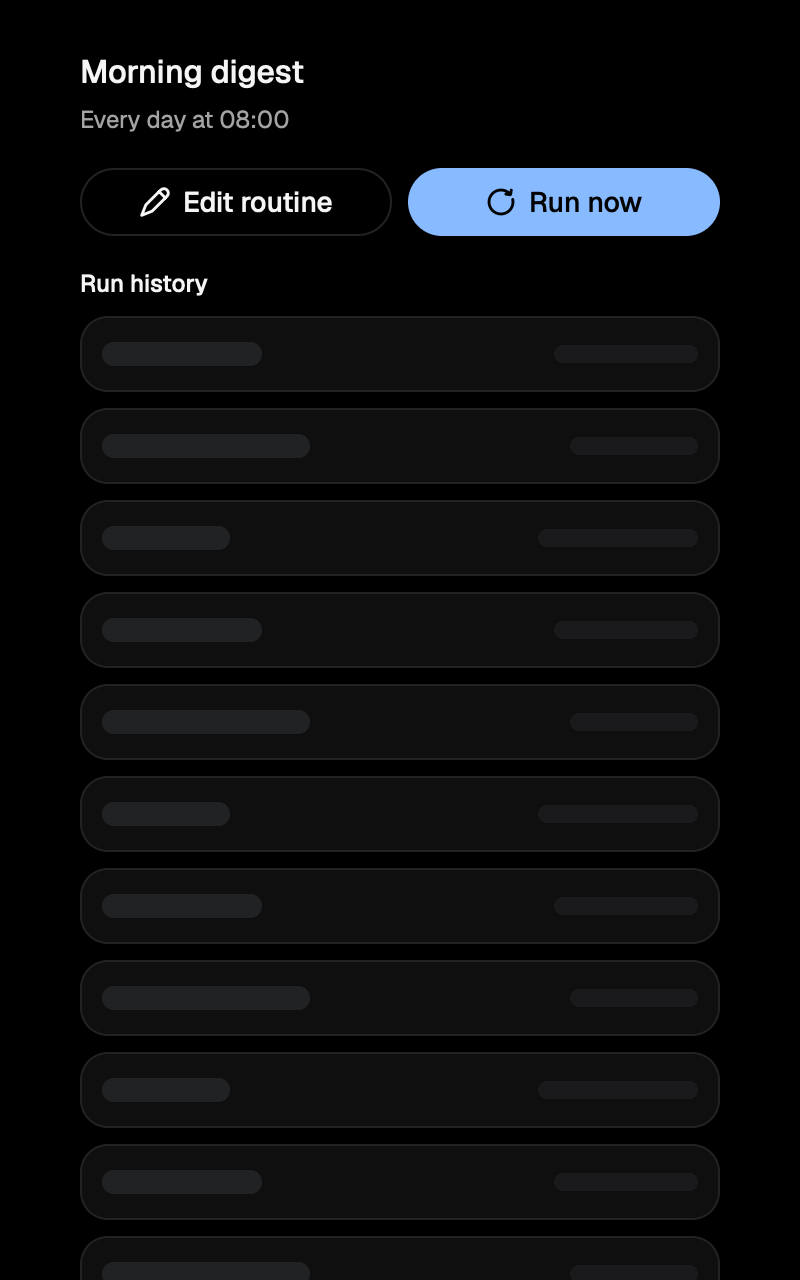
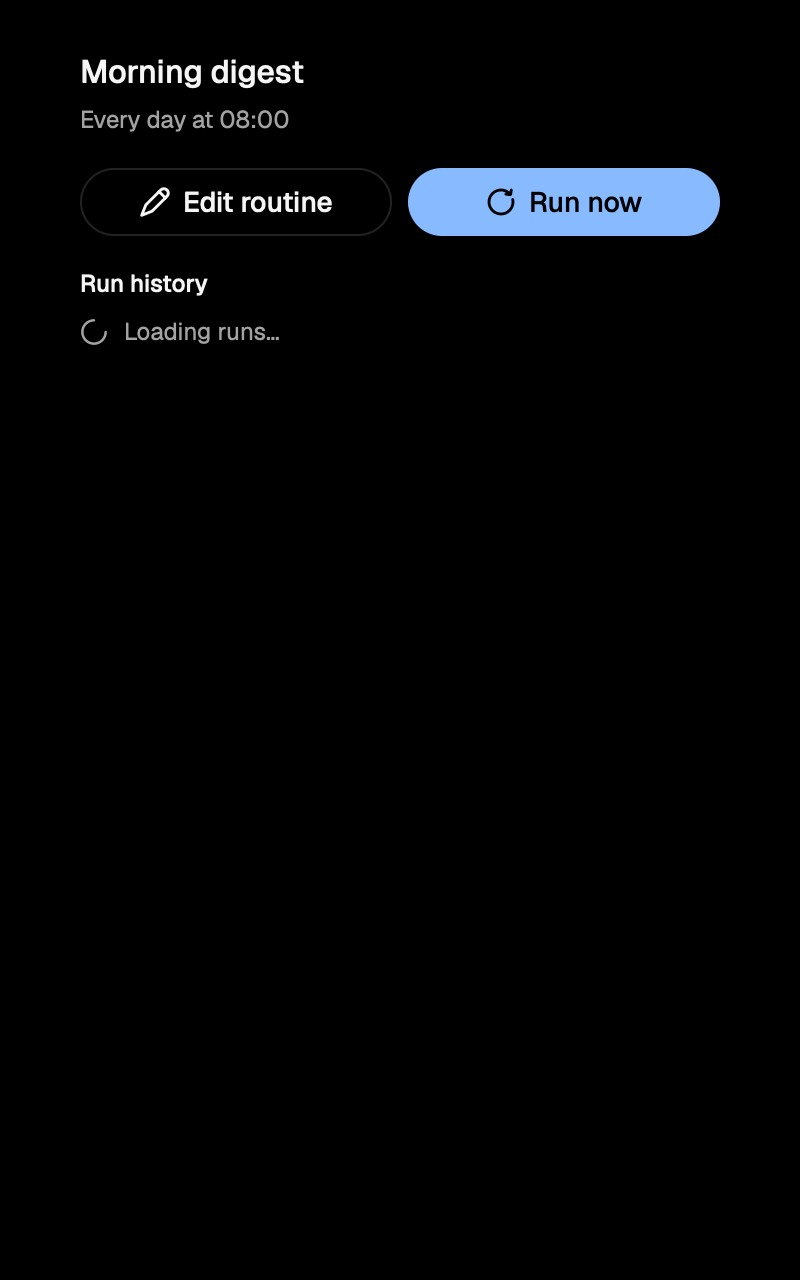
fix(rune-preview): draw the first run history read as the reference status line (OPE-1983)
While the first read of the runs is in flight with nothing read, the
routine detail draws one status line, the still loading glyph at 14 px
and "Loading runs…" in the extra-small muted style, as
packages/ui/src/components/routine-detail.tsx does, instead of a
full-height skeleton the reference never drew. run_skeleton and the
constants only it used are gone. Only the
conversation-routines-routinedetail--loading baselines change, on macOS
and Linux.

diff --git a/apps/rune-preview/kit/src/surfaces/s09_routines/detail.rs b/apps/rune-preview/kit/src/surfaces/s09_routines/detail.rs
@@ -1,10 +1,7 @@
 use rune::{Color, El, Icon, col, el, icon, row, text};
 
 use super::row::stopped_badge;
-use super::{
-	BORDER, Emit, Retry, RoutinesEvent, bar, bar_line, emits, empty_state, faint_bar,
-	filling_skeleton, notice, plural, say, tabular,
-};
+use super::{BORDER, Emit, Retry, RoutinesEvent, emits, empty_state, notice, plural, say, tabular};
 use crate::icons;
 use crate::primitives::DISABLED_OPACITY;
 use crate::primitives::button::{Button, ButtonVariant};
@@ -15,13 +12,6 @@ use chat::routines::detail::{history, run_now};
 
 const RUN_MARK: f32 = SPACING * 3.5;
 const RUN_INSET: f32 = SPACING * 2.5 + BORDER;
-const RUN_LINE: f32 = SPACING * 4.0;
-const SKELETON_ROWS: usize = 16;
-const SKELETON_WIDTHS: [(f32, f32); 3] = [
-	(SPACING * 20.0, SPACING * 18.0),
-	(SPACING * 26.0, SPACING * 16.0),
-	(SPACING * 16.0, SPACING * 20.0),
-];
 const AGGREGATE_SEPARATOR: &str = " \u{b7} ";
 
 #[derive(Clone, Copy, Debug, PartialEq, Eq)]
@@ -148,18 +138,6 @@ fn run_row(t: &Tokens, lang: Language, run: &Run) -> El {
 	frame
 }
 
-fn run_skeleton(t: &Tokens, rank: usize) -> El {
-	let (outcome, time) = SKELETON_WIDTHS[rank % SKELETON_WIDTHS.len()];
-	run_frame(t).a11y_hidden().child(
-		row()
-			.w_full()
-			.justify_between()
-			.center_y()
-			.child(bar_line(RUN_LINE, bar(t, outcome)))
-			.child(bar_line(RUN_LINE, faint_bar(t, time))),
-	)
-}
-
 fn aggregate(t: &Tokens, lang: Language, history: &History, latest: &Run) -> El {
 	let read = history.newest_first.len();
 	let reports =
@@ -207,10 +185,18 @@ fn run_history<S: 'static>(t: &Tokens, lang: Language, history: &History, emit: 
 		return body.child(failure);
 	}
 	if history.reading {
-		return body.role("status").label(say(history::READING, lang)).child(filling_skeleton(
-			(0..SKELETON_ROWS).map(|rank| run_skeleton(t, rank)),
-			SPACING * 2.0,
-		));
+		let reading = say(history::READING, lang);
+		return body.child(
+			row()
+				.gap(SPACING * 2.0)
+				.center_y()
+				.role("status")
+				.label(reading)
+				.child(
+					icon(&icons::LOADER_CIRCLE, RUN_MARK).color(t.muted_foreground).a11y_hidden(),
+				)
+				.child(text(reading).font(TEXT_XS).color(t.muted_foreground)),
+		);
 	}
 	body.child(empty_state(
 		t,
